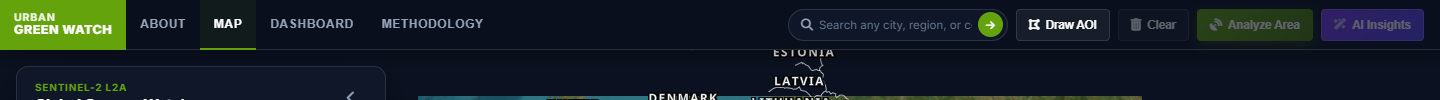
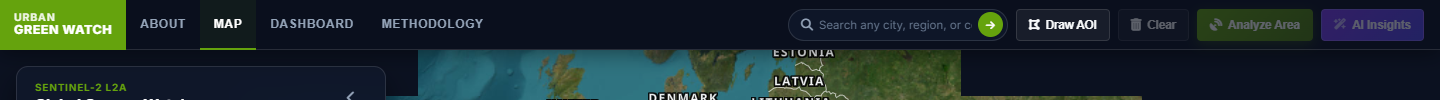
chore(deploy): accept config, CORS origins, and docs updates

Changed region(s): [[0.25, 0.48, 0.6875, 1.0]]

diff --git a/frontend/src/config.js b/frontend/src/config.js
@@ -21,10 +21,13 @@ export function resolveApiBaseUrl() {
   }
 
   // 1. Explicit runtime override (set in frontend/config.js or injected by host)
+  // When running locally, ignore default production URL so local dev works seamlessly with 127.0.0.1:8000
   const runtimeOverride = window.UGW_API_URL || (window.__ENV__ && window.__ENV__.API_URL);
   if (runtimeOverride && typeof runtimeOverride === "string" && runtimeOverride.trim()) {
     const trimmed = runtimeOverride.trim().replace(/\/+$/, "");
-    return trimmed.endsWith("/api") ? trimmed : `${trimmed}/api`;
+    if (!IS_LOCAL || window.UGW_FORCE_REMOTE || trimmed !== DEFAULT_PROD_API_URL.replace(/\/+$/, "")) {
+      return trimmed.endsWith("/api") ? trimmed : `${trimmed}/api`;
+    }
   }
 
   // 2. Local development fallback

diff --git a/README.md b/README.md
@@ -1,6 +1,67 @@
-# GIS-Based Urban Tree Mapping & Green-Cover Assessment System
+# Urban GreenWatch — GIS-Based Urban Tree Mapping & Green-Cover Assessment System
 
-An end-to-end full-stack geospatial platform designed to calculate urban green cover, compute satellite-based **Normalized Difference Vegetation Index (NDVI)** using **Sentinel-2 Surface Reflectance** imagery via **Google Earth Engine (GEE)**, persist spatial boundaries using **Supabase PostGIS**, and generate deterministic **environmental rule-based insights** to combat the Urban Heat Island (UHI) effect.
+An interactive, on-demand web GIS application for mapping urban green cover and assessing vegetation health using **Sentinel-2** optical satellite imagery, **Google Earth Engine (GEE)**, **FastAPI**, and **Supabase (PostgreSQL + PostGIS)**.
+
+---
+
+## 🌐 Live Deployment URLs
+
+- **Frontend (Vercel):** [https://gis-based-urban-tree-mapping-system.vercel.app](https://gis-based-urban-tree-mapping-system.vercel.app)
+- **Backend API (Render):** [https://gis-based-urban-tree-mapping-system.onrender.com](https://gis-based-urban-tree-mapping-system.onrender.com)
+- **Backend Health Check:** [https://gis-based-urban-tree-mapping-system.onrender.com/health](https://gis-based-urban-tree-mapping-system.onrender.com/health)
+
+---
+
+## 🔍 How the System Works
+
+1. **Landing & Navigation:** Open the Vercel frontend (`About` view), navigate to the interactive global map, or open **DASHBOARD** and **METHODOLOGY**.
+2. **Custom Boundary Selection:** Zoom/pan across the world map and draw a custom polygon around the target area.
+3. **On-Demand Satellite Analysis:** Clicking **Analyze Area** sends the polygon to the FastAPI backend, which queries Sentinel-2 imagery via Google Earth Engine, masks clouds, computes **NDVI** ($\frac{\text{NIR} - \text{Red}}{\text{NIR} + \text{Red}}$), and returns vegetation statistics and map layers.
+4. **Insights, Exports & History:** View summary metrics, generate insights, download reports, and save/recall past polygons and statistics stored in **Supabase PostGIS**.
+
+> **Scope Note:** NDVI computed from 10-meter Sentinel-2 bands indicates broad green-cover patterns and vegetation density—it is a remote-sensing index, not a machine-learning individual tree-trunk counter or species classifier.
+
+---
+
+## ⏱ How to Run & Use the Live Website Every Time
+
+You can open **`https://gis-based-urban-tree-mapping-system.vercel.app`** anytime without redeploying:
+
+- **Opening the Frontend:** Vercel serves the static frontend quickly from its CDN. Opening the webpage alone does **not** start Render's 15-minute inactivity clock.
+- **First Backend Request After Idle Time (15+ Minutes):** Render's free tier spins down after **15 minutes without backend requests**. If you return after a few hours or a couple of days, the **first** backend call (such as **Analyze Area**, loading **DASHBOARD** history, or **AI Insights**) can take roughly **30–60 seconds** while Render wakes up.
+- **Subsequent Requests:** Once Render is awake, follow-up requests run at normal speed as long as requests keep arriving within 15-minute intervals.
+- **Demo / Presentation Tip:** About 1 minute before a demo or review, open [https://gis-based-urban-tree-mapping-system.onrender.com/health](https://gis-based-urban-tree-mapping-system.onrender.com/health) in a browser tab until it returns `{"status":"ok"}` so the backend is already warm.
+
+---
+
+## ⚙ Environment Variables & Deployment Checklist
+
+### 1. Render Backend (`Environment` Tab)
+Set your live values in Render (never commit real secrets or `.env` files to Git):
+
+```env
+SUPABASE_URL=https://YOUR_PROJECT_REF.supabase.co
+SUPABASE_KEY=YOUR_SUPABASE_KEY
+SUPABASE_SECRET_KEY=YOUR_SUPABASE_SECRET_KEY
+GEE_SERVICE_ACCOUNT=YOUR_SERVICE_ACCOUNT_EMAIL
+GEE_PROJECT_ID=YOUR_GCP_PROJECT_ID
+GEE_SERVICE_ACCOUNT_JSON={"type":"service_account",...}
+ALLOWED_ORIGINS=https://gis-based-urban-tree-mapping-system.vercel.app,http://localhost:3000,http://127.0.0.1:3000
+API_V1_STR=/api
+PROJECT_NAME=GIS Urban Tree Mapping API
+DEBUG=False
+PORT=8000
+HOST=0.0.0.0
+GEMINI_API_KEY=YOUR_GEMINI_API_KEY
+GEMINI_MODEL=gemini-3.8-flash
+GROQ_API_KEY=YOUR_GROQ_API_KEY
+GROQ_MODEL=openai/gpt-oss-120b
+```
+
+### 2. Vercel Frontend Settings
+- **Framework Preset:** Other / None (Static HTML/JS/CSS).
+- **Root Directory:** `./` (or leave default root with root `vercel.json` pointing `outputDirectory: "frontend"`).
+- **Backend URL Config:** The frontend automatically connects to `https://gis-based-urban-tree-mapping-system.onrender.com` in production and `http://127.0.0.1:8000/api` when on `localhost`. Can also be overridden in `frontend/config.js` via `window.UGW_API_URL`.
 
 ---
 
@@ -13,37 +74,44 @@ urban-tree-mapping/
 ├── backend/
 │   ├── app/
 │   │   ├── __init__.py
-│   │   ├── main.py                     # App factory, CORS middleware, API router mounts, health check
-│   │   ├── config.py                   # Pydantic BaseSettings loading .env
+│   │   ├── main.py                     # App factory, CORS middleware, API router mounts, /health check
+│   │   ├── config.py                   # Pydantic BaseSettings loading .env, GEE SA JSON, and origins
 │   │   ├── core/                       # Shared backend core
 │   │   │   ├── __init__.py
 │   │   │   └── database.py             # Supabase client initialization & connection logic
-│   │   └── features/                   # FEATURE-BASED MODULES
+│   │   ├── services/                   # Core platform services
+│   │   │   ├── gee_service.py          # 3-tier GEE auth (in-memory JSON, file-based, simulation fallback)
+│   │   │   ├── insights_service.py     # Gemini & Groq multi-LLM orchestration + deterministic fallback
+│   │   │   └── supabase_service.py     # PostGIS persistence and querying
+│   │   └── features/                   # Feature-based API routers
 │   │       ├── analyze/                # Feature 1: Real-time Sentinel-2 & NDVI Processing
-│   │       │   ├── __init__.py
-│   │       │   ├── router.py           # POST /api/analyze endpoint
+│   │       │   ├── router.py           # POST /api/analyze and POST /api/analyze/compare
 │   │       │   ├── schemas.py          # Request/response validation schemas for polygon & NDVI stats
-│   │       │   └── service.py          # Google Earth Engine (GEE) query, cloud-mask, and NDVI math
-│   │       ├── history/                # Feature 2: PostGIS History & Saved Analysis Runs
-│   │       │   ├── __init__.py
+│   │       │   └── service.py          # GEE cloud-mask, NDVI computation, and canopy metrics
+│   │       ├── analyses/               # Feature 2: Saved analysis management
+│   │       │   ├── router.py           # GET /api/analyses, GET /api/analyses/{id}, DELETE
+│   │       │   └── schemas.py          # Analysis listing and detail schemas
+│   │       ├── history/                # Feature 3: PostGIS History & Saved Analysis Runs
 │   │       │   ├── router.py           # GET /api/history and GET /api/history/{id}
-│   │       │   ├── schemas.py          # History listing and detail schemas
-│   │       │   └── service.py          # Supabase PostGIS spatial query operations
-│   │       └── insights/               # Feature 3: Rule-Based Environmental Insights
-│   │           ├── __init__.py
-│   │           ├── service.py          # Deterministic rules (green-deficit, canopy health, recommendations)
-│   │           └── schemas.py          # Insight output schemas
-│   ├── requirements.txt
-│   └── .env.example
+│   │       │   └── schemas.py          # History listing schemas
+│   │       └── insights/               # Feature 4: AI & Rule-Based Environmental Insights
+│   │           ├── router.py           # POST /api/insights
+│   │           └── schemas.py          # AI insight schemas & canopy health models
+│   ├── requirements.txt                # Pinned production backend dependencies
+│   └── .env.example                    # Backend environment variable template
 ├── frontend/
-│   ├── index.html                      # Single-page application entry point
-│   ├── package.json                    # Frontend dependencies & Vite bundler scripts
-│   ├── styles/                         # Global styling
-│   │   └── main.css                    # Dark glassmorphic GIS dashboard design
-│   └── src/                            # FEATURE-BASED MODULES
-│       ├── main.js                     # App bootstrap and orchestrator
+│   ├── index.html                      # Single-page application entry point (About, Map, Dashboard, Methodology)
+│   ├── config.js                       # Runtime environment hook (window.UGW_API_URL)
+│   ├── package.json                    # Frontend dependencies (Leaflet, jsPDF, html2canvas) & Vite scripts
+│   ├── vercel.json                     # Vercel deployment headers and routing rules
+│   ├── styles/                         # Application styling
+│   │   ├── main.css                    # Dark glassmorphic GIS dashboard design
+│   │   └── editorial.css               # Editorial landing page styling for About & Methodology views
+│   └── src/                            # Feature-based JavaScript modules
+│       ├── config.js                   # Centralized API base URL resolver (Localhost vs. Render production)
+│       ├── main.js                     # View orchestrator and navigation controller
 │       ├── api/                        # Centralized backend API client
-│       │   └── apiClient.js            # fetch wrappers for /analyze, /history, /health
+│       │   └── apiClient.js            # fetch wrappers for /analyze, /analyses, /insights, /health
 │       └── features/
 │           ├── map/                    # Feature 1: Global Map & Polygon Drawing Tool
 │           │   ├── mapManager.js       # Base map initialization (Leaflet dark & satellite basemaps)
@@ -51,18 +119,21 @@ urban-tree-mapping/
 │           ├── layers/                 # Feature 2: Satellite Overlay & Tile Management
 │           │   ├── ndviLayer.js        # GEE dynamic XYZ raster layer renderer
 │           │   └── legend.js           # Vegetation density color legend (Red -> Dark Green)
-│           ├── dashboard/              # Feature 3: Analysis Statistics Display
-│           │   └── statsPanel.js       # Total area, green cover %, mean NDVI, acquisition date
-│           ├── insights/               # Feature 4: Green-Deficit Recommendations
-│           │   └── insightsCard.js     # Rule-based insight cards and warning banners
+│           ├── dashboard/              # Feature 3: Analysis Statistics Display & Temporal Comparison
+│           │   └── statsPanel.js       # Total area, green cover %, mean NDVI, acquisition date, charts
+│           ├── insights/               # Feature 4: Green-Deficit Recommendations & PDF Report
+│           │   ├── insightsCard.js     # AI insights modal, health score breakdown, PDF generator
+│           │   └── pdfReportGenerator.js # Clean multi-page PDF study report export with charts & maps
 │           └── history/                # Feature 5: Analysis History Drawer
-│               └── historyDrawer.js    # Sidebar list of past runs, item click-to-recall map bounds
+│               └── historyDrawer.js    # Sidebar list of past runs, click-to-recall map bounds
+├── render.yaml                         # Render Infrastructure-as-Code Blueprint
+├── vercel.json                         # Vercel deployment configuration
 └── README.md
 ```
 
 ---
 
-## 🚀 Getting Started
+## 🚀 Local Development Setup
 
 ### 1. Prerequisites
 - **Python**: 3.10+
@@ -81,7 +152,7 @@ urban-tree-mapping/
    ```bash
    # Windows (PowerShell)
    python -m venv venv
-   .\.venv\Scripts\Activate.ps1
+   .\venv\Scripts\Activate.ps1
 
    # Linux / macOS
    python3 -m venv venv
@@ -98,22 +169,24 @@ urban-tree-mapping/
    ```bash
    cp .env.example .env
    ```
-   Edit `.env` with your Supabase and Google Earth Engine credentials:
+   Edit `.env` with your Supabase, Google Earth Engine, and Gemini credentials:
    ```ini
    SUPABASE_URL=https://your-project.supabase.co
    SUPABASE_KEY=your-supabase-service-role-key
    GEE_SERVICE_ACCOUNT=your-gee-sa@project.iam.gserviceaccount.com
    GEE_PRIVATE_KEY_FILE=credentials/gee-key.json
+   GEMINI_API_KEY=your-gemini-api-key
    ```
-   > **Note on Mock/Simulation Mode**: If GEE or Supabase credentials are not provided, the backend automatically operates in **development fallback mode** with realistic simulation values and an in-memory history cache, allowing full UI testing without external blockers.
+   > **Note on Fallback / Simulation Mode**: If GEE, Supabase, or Gemini credentials are not provided, the backend automatically operates in **graceful fallback mode** with realistic simulation values and an in-memory history cache, allowing full UI testing without external blockers.
 
 5. **Run the FastAPI Server**:
    ```bash
    uvicorn app.main:app --reload --host 0.0.0.0 --port 8000
    ```
-   The interactive Swagger documentation will be accessible at:
+   The interactive API documentation will be accessible at:
    - **Swagger UI**: [http://localhost:8000/docs](http://localhost:8000/docs)
    - **ReDoc**: [http://localhost:8000/redoc](http://localhost:8000/redoc)
+   - **Health Probe**: [http://localhost:8000/health](http://localhost:8000/health)
 
 ---
 
@@ -129,37 +202,52 @@ urban-tree-mapping/
    npm install
    npm run dev
    ```
-   *Or launch directly using any local static web server (e.g., Python `http.server` or VS Code Live Server):*
+   *Or launch directly using any local static web server (zero build step required):*
    ```bash
    python -m http.server 3000
    ```
 
 3. Open your browser to `http://localhost:5173` (or `http://localhost:3000`).
+   The frontend automatically detects local development and routes all API requests to `http://127.0.0.1:8000/api`.
 
 ---
 
-## 🛰 Core Features & Data Flow
+## 🛰 Core Features & Scientific Methodology
 
-### 1. Real-Time Sentinel-2 & NDVI Processing (`backend/app/features/analyze`)
+### 1. Real-Time Sentinel-2 & NDVI Processing
 - Accepts a GeoJSON polygon from the frontend.
-- Queries the `COPERNICUS/S2_SR` collection on Google Earth Engine.
-- Applies QA60 cloud bitmask filtering to eliminate cloud and cirrus noise.
+- Queries the `COPERNICUS/S2_HARMONIZED` and `COPERNICUS/S2_SR_HARMONIZED` collections on Google Earth Engine.
+- Applies QA60 cloud and cirrus bitmask filtering to eliminate atmospheric noise.
 - Computes NDVI via:
   $$\text{NDVI} = \frac{B_8 - B_4}{B_8 + B_4}$$
-- Returns mean NDVI, total surface area, canopy tier breakdowns, and an Earth Engine XYZ dynamic raster tile template.
+- Classifies canopy tiers across 4 standardized density brackets:
+  - **Dense Vegetation / Tree Canopy**: $\text{NDVI} \ge 0.60$
+  - **Moderate / Shrub Cover**: $0.40 \le \text{NDVI} < 0.60$
+  - **Sparse / Grass Cover**: $0.20 \le \text{NDVI} < 0.40$
+  - **Non-Vegetated / Built / Water**: $\text{NDVI} < 0.20$
 
-### 2. PostGIS History & Recall (`backend/app/features/history`)
+### 2. Temporal & Multi-Date Comparison (`/api/analyze/compare`)
+- Allows users to select two distinct observation date windows (e.g., Pre-Monsoon vs. Post-Monsoon, or multi-year epochs).
+- Computes baseline vs. comparison delta metrics ($\Delta$ Green Cover %, $\Delta$ Mean NDVI, $\Delta$ Canopy Area).
+- Visualizes canopy expansion or loss trajectories.
+
+### 3. PostGIS Spatial Persistence & Historical Recall (`/api/analyses`)
 - Automatically captures every completed run with its GeoJSON boundary, computed metrics, and timestamps.
 - Integrates with Supabase PostGIS spatial tables.
-- Enables the frontend **History Drawer** to list previous runs and perform **click-to-recall**, which zooms the Leaflet map back to the historic bounds and reloads the overlay.
+- Enables the frontend **Dashboard** and **History Drawer** to list previous runs and perform **click-to-recall**, which zooms the Leaflet map back to the historic bounds and reloads the overlay.
 
-### 3. Deterministic Environmental Insights (`backend/app/features/insights`)
+### 4. AI & Rule-Based Environmental Insights
 - Benchmarks vegetation coverage against WHO urban forestry standards (minimum 30% urban canopy cover target).
 - Computes:
   - **Green Deficit in Hectares**: $\max(0, (0.30 - \text{green\_ratio}) \times \text{area\_ha})$
   - **Tree Planting Target**: Estimated using $\approx 400$ shade trees/hectare.
-  - **Urban Heat Island (UHI) Risk Rating**: Critical, Warning, Moderate, or Healthy.
+  - **Urban Heat Island (UHI) Risk Rating**: Critical, High, Moderate, or Low.
   - **Targeted Interventions**: Recommending bioswales, street canopy infill, and cool corridors.
+  - **Multi-LLM Synthesis**: Powered by Google Gemini (`gemini-3.8-flash` / `gemini-2.5-flash`), with automated Groq fallback (`openai/gpt-oss-120b`) and a deterministic fallback engine.
+
+### 5. Multi-Page PDF Study Report Export
+- Exports a complete, print-ready PDF study report featuring executive synthesis, key metrics, canopy health score breakdown, intervention matrix, high-resolution map snapshot, and vegetation charts.
+- Built using client-side `jsPDF` with Unicode sanitization and dynamic multi-page flow.
 
 ---
 
@@ -167,13 +255,16 @@ urban-tree-mapping/
 
 | Method | Endpoint | Description |
 | :--- | :--- | :--- |
-| `GET` | `/api/health` | System health check and status confirmation |
-| `POST` | `/api/analyze` | Processes AOI polygon, executes NDVI math, and saves run |
-| `GET` | `/api/history` | Retrieves paginated historical analysis runs |
-| `GET` | `/api/history/{id}` | Fetches full run record by UUID including GeoJSON boundary |
+| `GET` | `/health` | Lightweight platform health probe (200 OK `{"status": "ok"}`) for Render / uptime monitors |
+| `GET` | `/api/health` | Detailed system status, GEE telemetry, and credentials status |
+| `POST` | `/api/analyze` | Processes AOI polygon, executes Sentinel-2 cloud-masked NDVI math, and saves run to PostGIS |
+| `POST` | `/api/analyze/compare` | Executes two-period temporal NDVI comparison and delta computation |
+| `GET` | `/api/analyses` | Retrieves paginated historical analysis runs from Supabase PostGIS |
+| `GET` | `/api/analyses/{id}` | Fetches full run record by UUID including GeoJSON boundary and statistics |
+| `DELETE` | `/api/analyses/{id}` | Deletes an analysis record by UUID |
+| `POST` | `/api/insights` | Generates AI synthesis, canopy health score, and intervention recommendations |
 
 ---
 
 ## 📜 License
-MIT License - Designed for Academic and Environmental Research.
-
+MIT License - Designed for Academic, Urban Planning, and Environmental Research.
